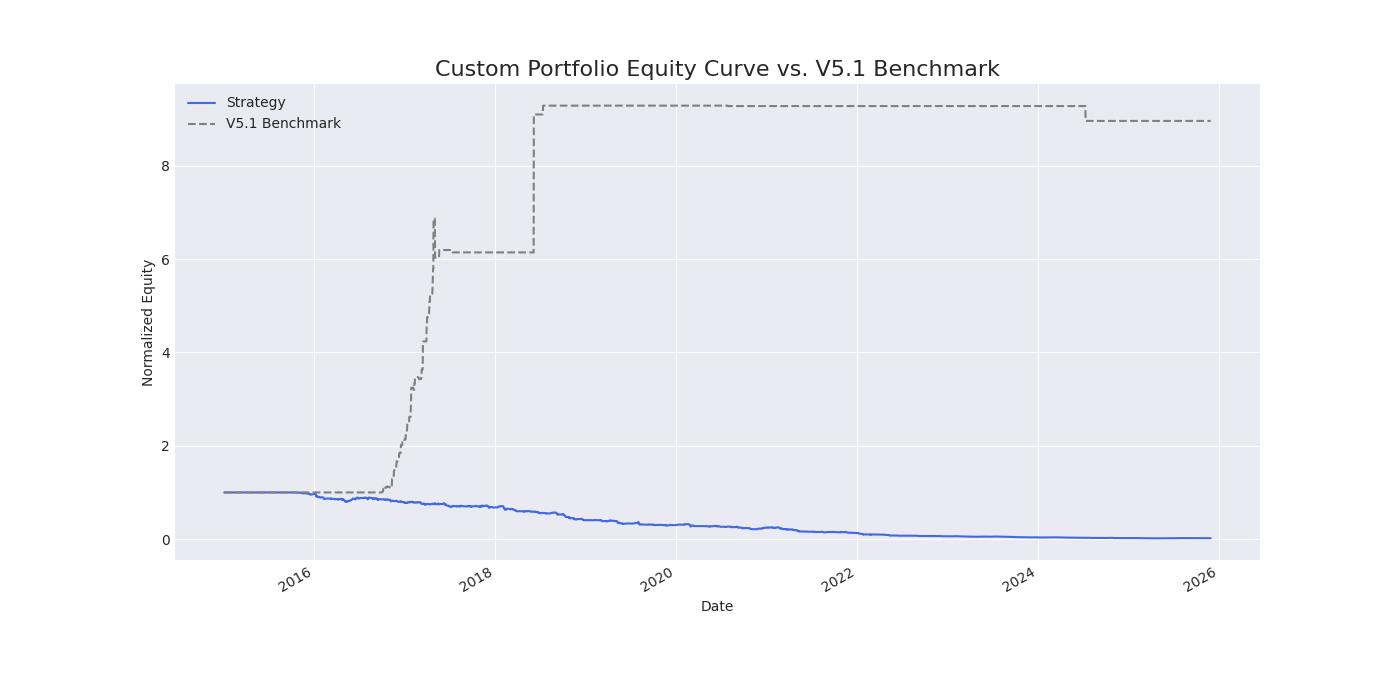
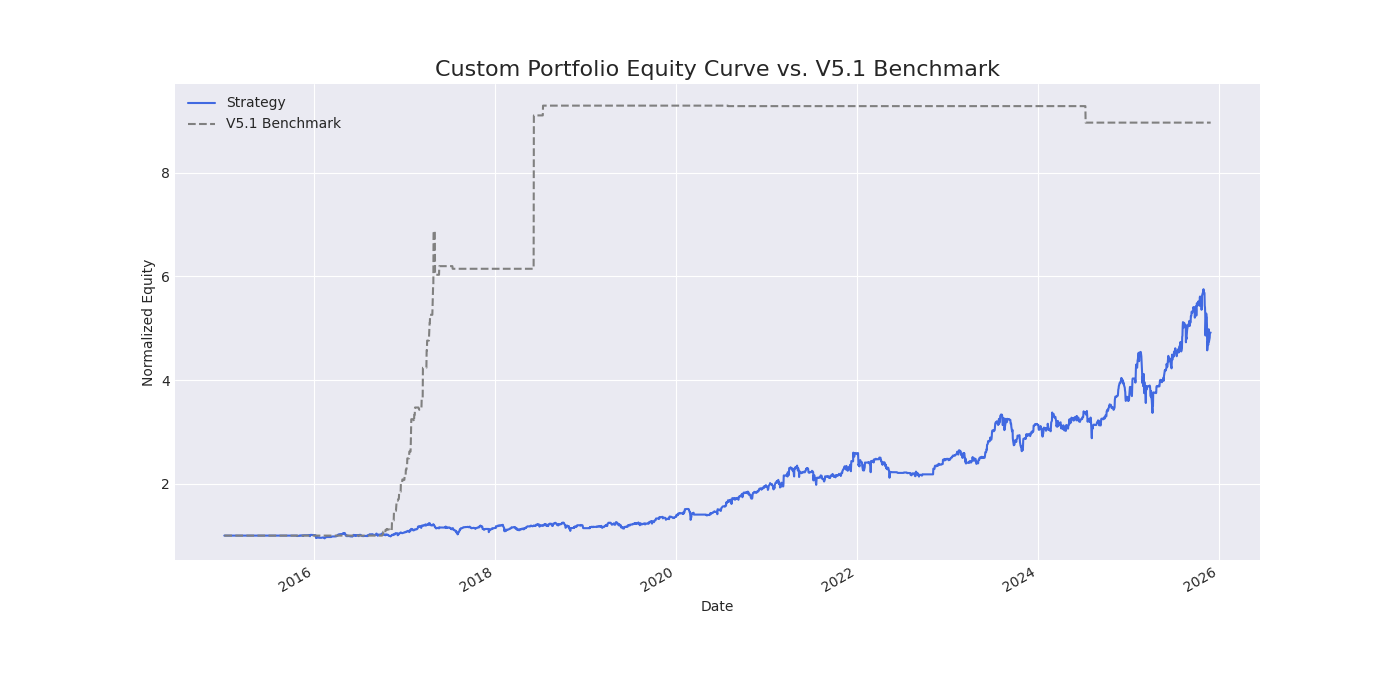
fix: v5.2 script

diff --git a/V5.2/ml_pipeline/backtesting_utils.py b/V5.2/ml_pipeline/backtesting_utils.py
@@ -8,35 +8,56 @@ def run_backtest(
     all_data,
     initial_capital=100000.0,
     target_risk=0.01,
-    max_position_pct=0.2, # 新增：單筆最大倉位 20%
+    max_position_pct=0.2,
     slippage_bps=5,
     transaction_cost_bps=5,
-    hold_days=5 # 新增：固定持有天數
+    hold_days=5
 ):
     """
     Runs a backtest with Liquidation, Time-Stop, and Sorted Entries.
+    Includes fixes for Data Contamination and Look-Ahead Bias.
     """
     # 初始化風控模組 (含倉位上限)
     rm = RiskManager(target_risk=target_risk, max_position_pct=max_position_pct)
 
-    # --- Signal Generation ---
+    # --- Data Preparation & Signal Generation (Fixes Applied) ---
+    # 確保數據按時間排序，但在計算指標時必須按 symbol 分組
     all_data = all_data.sort_index()
-    # Entry: RSI < 10 & Price > SMA200 (T-1 generated, executed at T Open)
-    all_data['entry_signal'] = (all_data['RSI_2'].shift(1) < 10) & (all_data['close'].shift(1) > all_data['SMA_200'].shift(1))
+    
+    # 使用 groupby 確保 shift 只發生在同一檔股票內
+    # 這是為了避免 "Data Contamination" (拿 A 股票的昨天預測 B 股票的今天)
+    grouped = all_data.groupby('symbol')
+    
+    # 取得 T-1 的關鍵指標 (用於 T 日開盤決策)
+    all_data['prev_RSI_2'] = grouped['RSI_2'].shift(1)
+    all_data['prev_close'] = grouped['close'].shift(1)
+    all_data['prev_SMA_200'] = grouped['SMA_200'].shift(1)
+    
+    # [Fix Look-Ahead Bias] 使用 T-1 的 ATR 來計算 T Open 的部位大小
+    # 因為在 T Open 時，我們還不知道 T 日的 High/Low/Close (無法算出當日 ATR)
+    all_data['prev_ATR_14'] = grouped['ATR_14'].shift(1)
 
-    # Exit 1: Technical Exit (RSI > 50)
-    all_data['tech_exit_signal'] = all_data['RSI_2'].shift(1) > 50
+    # 生成進場訊號 (使用 T-1 資訊)
+    # 邏輯: RSI(T-1) < 10 且 Price(T-1) > SMA200(T-1)
+    all_data['entry_signal'] = (all_data['prev_RSI_2'] < 10) & \
+                               (all_data['prev_close'] > all_data['prev_SMA_200'])
 
+    # 生成技術出場訊號 (使用 T-1 資訊)
+    # 邏輯: RSI(T-1) > 50
+    all_data['tech_exit_signal'] = all_data['prev_RSI_2'] > 50
+
+    # --- Backtest Loop Initialization ---
     cash = initial_capital
     # Positions structure: {symbol: {'shares': float, 'entry_price': float, 'days_held': int}}
     positions = {}
     equity = pd.Series(index=all_data.index.unique().sort_values())
 
     # --- Main Backtest Loop ---
+    # 按日期遍歷 (模擬真實時間流逝)
     for date, daily_data in all_data.groupby(level=0):
 
         # 0. Get Market Regime for Today
-        # 假設所有標的當天的 regime_signal 是一樣的 (來自 Macro)
+        # 假設所有標的當天的 regime_signal 是一樣的 (來自 Macro，且已對齊)
         current_regime = 0
         if 'regime_signal' in daily_data.columns:
             current_regime = daily_data['regime_signal'].iloc[0]
@@ -45,21 +66,26 @@ def run_backtest(
         portfolio_value = cash
         for symbol, pos_data in positions.items():
             if symbol in daily_data['symbol'].values:
+                # 嘗試取得今日開盤價作為估值 (最保守估計)
                 price_data = daily_data[daily_data['symbol'] == symbol]['open']
                 current_price = price_data.iloc[0] if not price_data.empty else pos_data['entry_price']
                 portfolio_value += pos_data['shares'] * current_price
+            else:
+                # 若今日無數據 (停牌)，沿用進場價或昨日收盤價 (此處簡化沿用 Entry)
+                portfolio_value += pos_data['shares'] * pos_data['entry_price']
+        
         equity[date] = portfolio_value
 
         # 2. Process Exits (含緊急清倉與時間止損)
         symbols_to_exit = []
 
-        # [Fix] Increment days_held for all positions *before* checking for exits.
+        # 更新持倉天數 (在檢查出場前先 +1，因為是開盤檢查)
         for pos_data in positions.values():
             pos_data['days_held'] += 1
 
         # [Defense Upgrade] 緊急清倉機制 (Liquidation)
         if current_regime == 2:
-            # 如果是崩盤模式，清空所有持倉
+            # 如果是崩盤模式 (Crash)，清空所有持倉
             symbols_to_exit = list(positions.keys())
         else:
             # 正常模式：檢查技術指標與時間止損
@@ -71,19 +97,20 @@ def run_backtest(
                     should_sell = True
 
                 # B. 技術出場 (RSI > 50)
+                # 檢查該股票今日是否有出場訊號
                 if not should_sell and symbol in daily_data['symbol'].values:
-                    exit_signal_row = daily_data[daily_data['symbol'] == symbol]
-                    if not exit_signal_row.empty and exit_signal_row['tech_exit_signal'].iloc[0]:
+                    row = daily_data[daily_data['symbol'] == symbol]
+                    if not row.empty and row['tech_exit_signal'].iloc[0]:
                         should_sell = True
 
                 if should_sell:
                     symbols_to_exit.append(symbol)
 
-        # 執行賣出
+        # 執行賣出操作
         for symbol in symbols_to_exit:
-            if symbol not in positions: continue # 避免重複刪除
+            if symbol not in positions: continue # 避免重複操作
 
-            # 取得賣出價格 (Open)
+            # 取得賣出價格 (以 Open 賣出)
             exit_price_data = daily_data[daily_data['symbol'] == symbol]['open']
 
             # 若數據缺失 (停牌)，則無法賣出，保留至隔日
@@ -91,7 +118,7 @@ def run_backtest(
                 exit_price = exit_price_data.iloc[0]
                 shares = positions.pop(symbol)['shares']
 
-                # 結算資金
+                # 結算資金 (扣除滑價與手續費)
                 exit_price_adj = exit_price * (1 - slippage_bps / 10000)
                 proceeds = shares * exit_price_adj
                 costs = proceeds * (transaction_cost_bps / 10000)
@@ -99,22 +126,26 @@ def run_backtest(
 
         # 3. Process Entries (僅在非崩盤時買入)
         if rm.apply_regime_filter(current_regime):
+            # 篩選出今日有進場訊號的股票
             entry_signals = daily_data[daily_data['entry_signal']]
 
             if not entry_signals.empty:
-                # [Fix] 訊號排序：優先買入 RSI 最低 (超賣最嚴重) 的股票
-                entry_signals = entry_signals.sort_values(by='RSI_2', ascending=True)
+                # 訊號排序：優先買入 RSI(T-1) 最低 (超賣最嚴重) 的股票
+                # 注意：這裡必須使用 prev_RSI_2 進行排序
+                entry_signals = entry_signals.sort_values(by='prev_RSI_2', ascending=True)
 
                 for _, row in entry_signals.iterrows():
                     symbol = row['symbol']
                     if symbol in positions:
-                        continue
+                        continue # 已持有則不加碼
 
                     entry_price = row['open']
-                    atr = row['ATR_14']
+                    # [Fix] 使用 T-1 的 ATR (prev_ATR_14) 進行部位計算，避免前視偏差
+                    atr = row['prev_ATR_14']
 
-                    if atr > 0 and entry_price > 0:
-                        # 使用新的倉位計算 (含上限)
+                    # 確保 ATR 有效且大於 0
+                    if pd.notna(atr) and atr > 0 and entry_price > 0:
+                        # 使用風控模組計算股數 (含倉位上限)
                         shares = rm.calculate_position_size(portfolio_value, entry_price, atr)
 
                         if shares > 0:
@@ -123,6 +154,7 @@ def run_backtest(
                             transaction_fees = cost_of_trade * (transaction_cost_bps / 10000)
                             total_cost = cost_of_trade + transaction_fees
 
+                            # 檢查現金是否足夠
                             if cash >= total_cost:
                                 cash -= total_cost
                                 positions[symbol] = {
